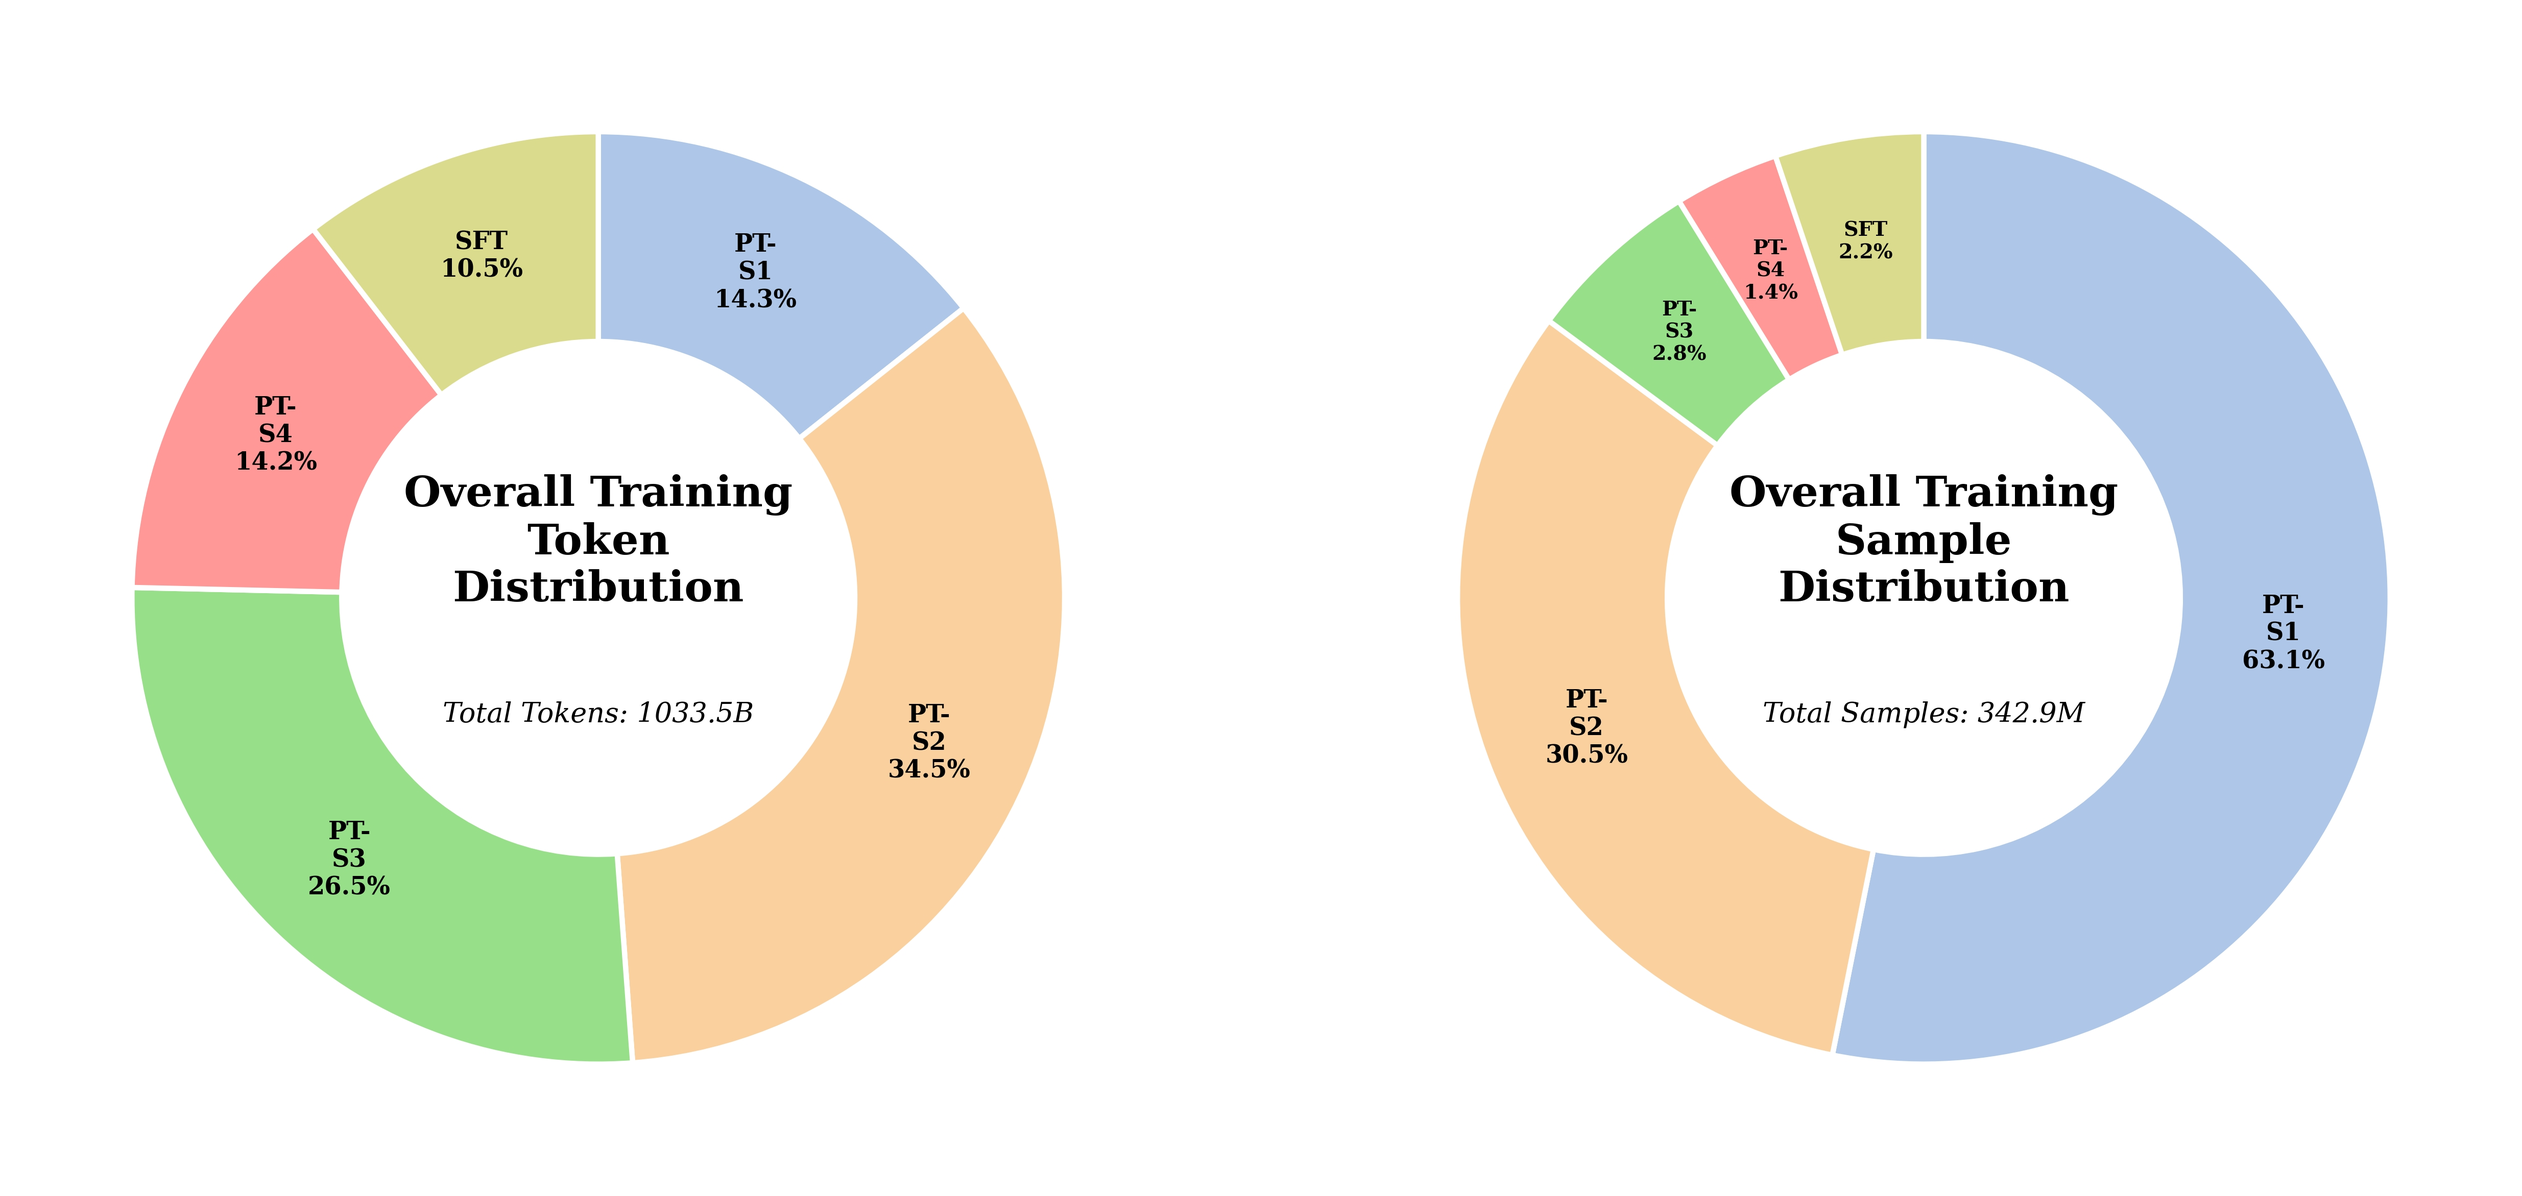
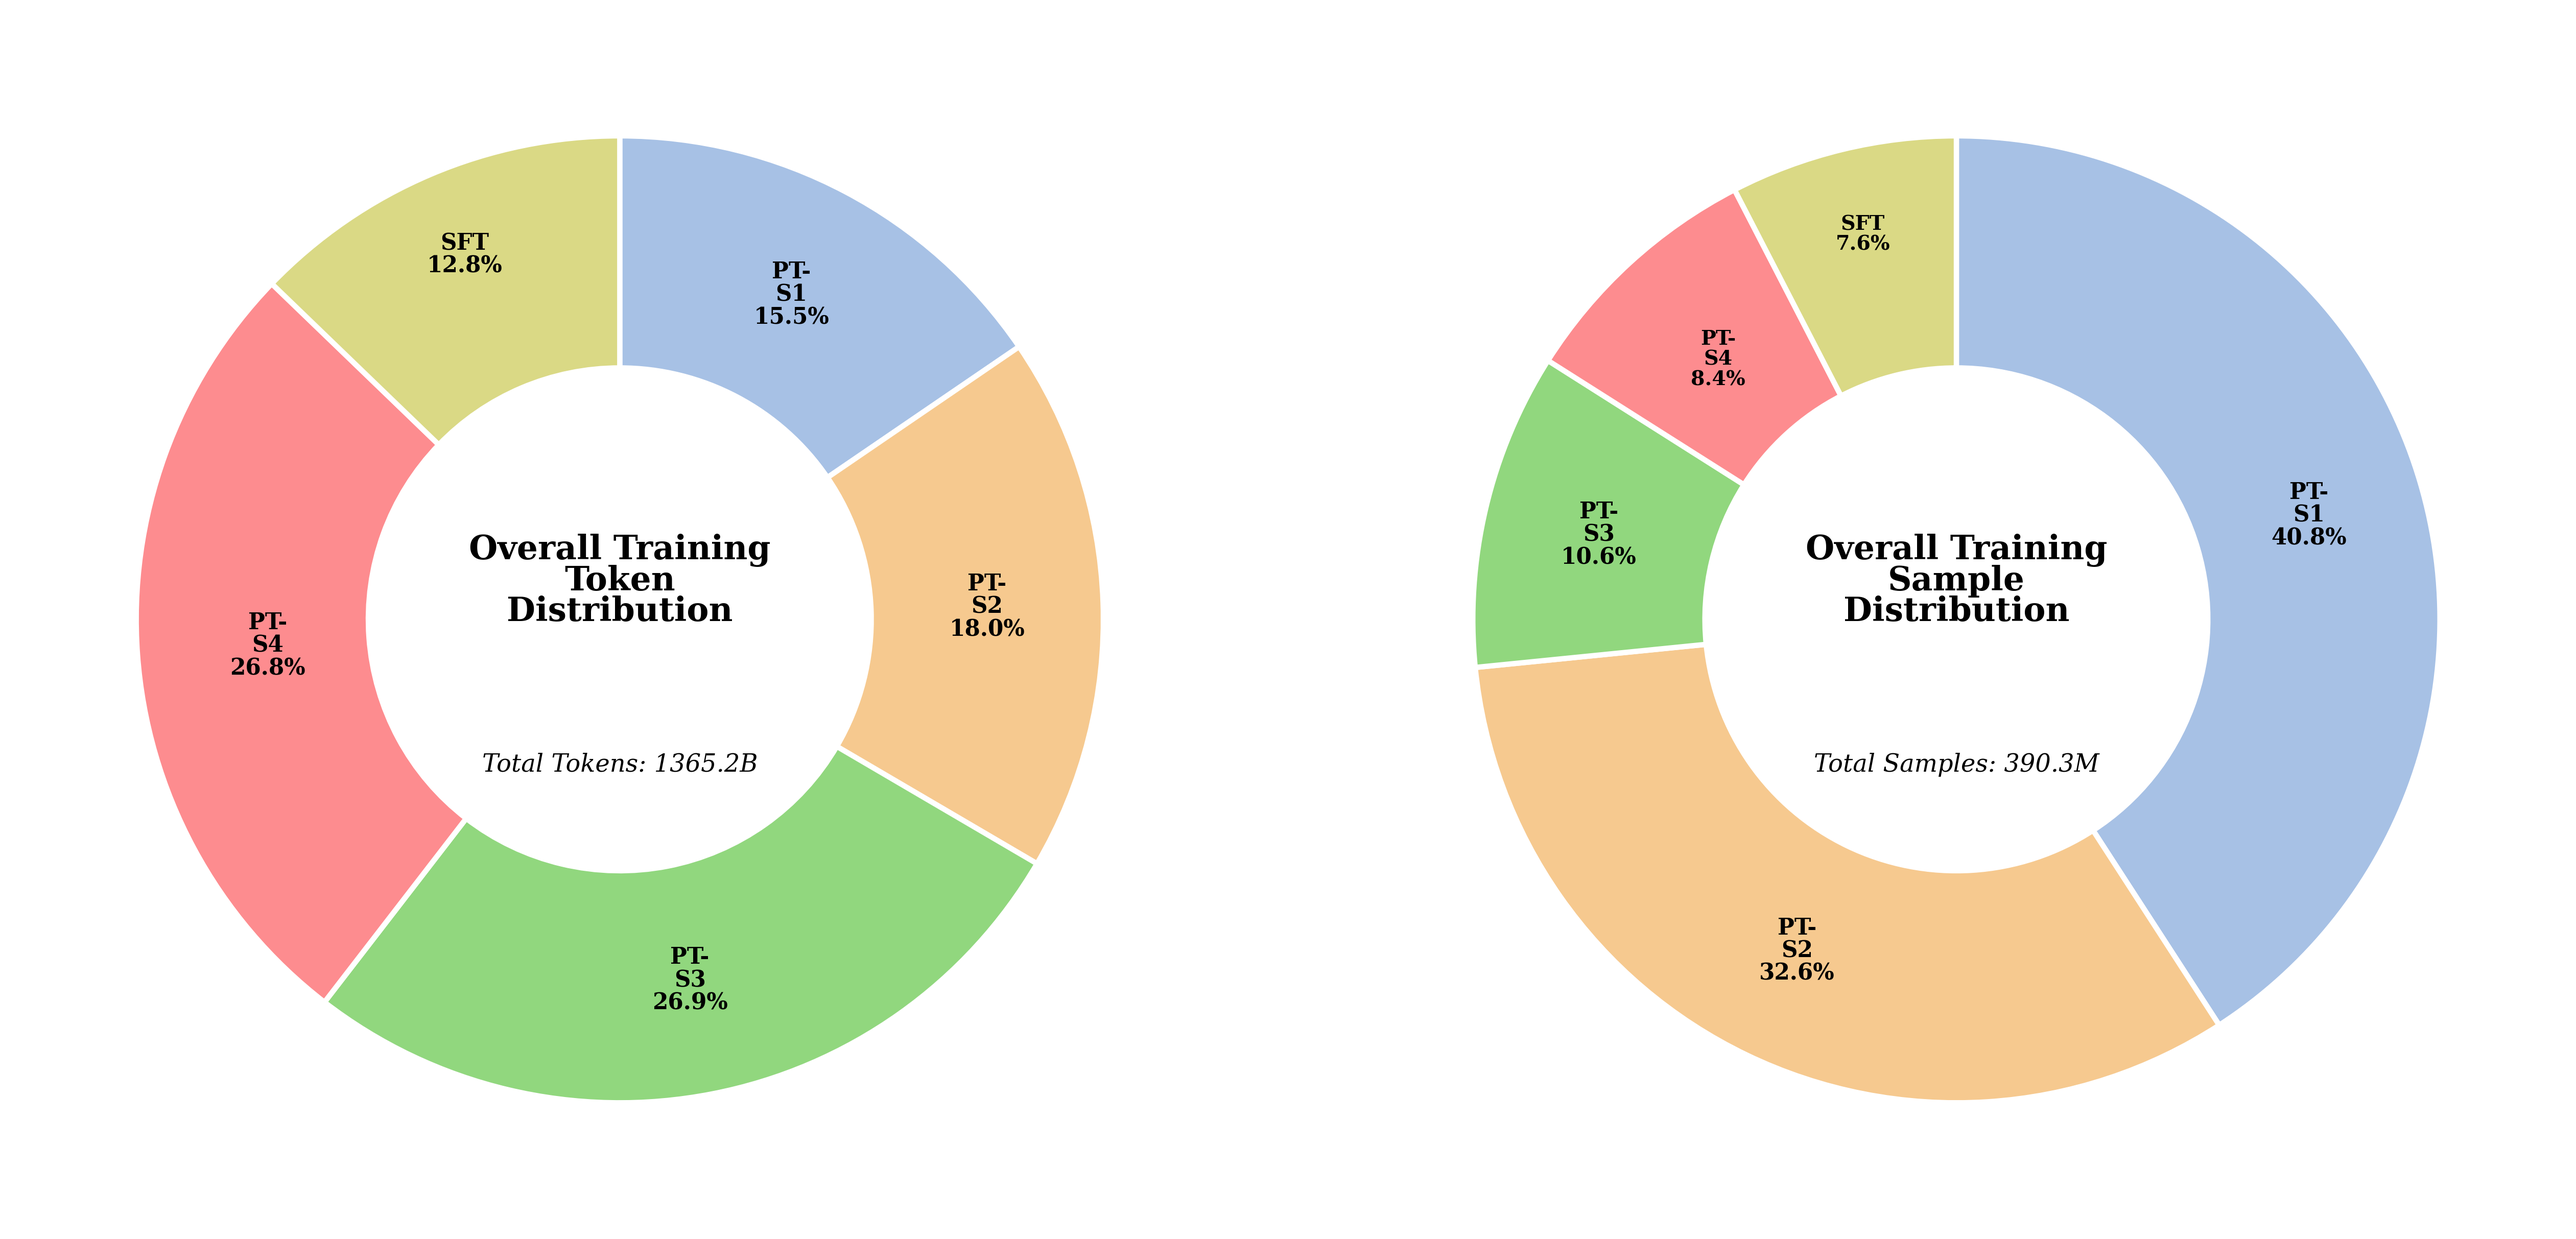
docs: expand quantized checkpoints to four and refresh data figures
- News (EN/ZH): the 2026/08/11 entry now lists all four quantized
  checkpoints — FP8 and NF4 variants of both Instruct-0708 and Realtime
- Refresh blog Figures 4/5 (overall data distribution, SFT composition)
  from the 20260812 data-flywheel export

Claude-Session: https://claude.ai/code/session_01FJCs8paYp2bL3wiGHstqAG

diff --git a/README.md b/README.md
@@ -46,7 +46,7 @@ At the architectural level, **MOSS-VL-Realtime** adopts the following core desig
 ---
 
 ## 🔥 News
-- **2026/08/11**: ⚡ Released 24 GiB quantized checkpoints for MOSS-VL: **MOSS-VL-Instruct-0708-FP8** ([Hugging Face](https://huggingface.co/OpenMOSS-Team/MOSS-VL-Instruct-0708-FP8) | [ModelScope](https://modelscope.cn/models/openmoss/MOSS-VL-Instruct-0708-FP8)) and **MOSS-VL-Realtime-NF4** ([Hugging Face](https://huggingface.co/OpenMOSS-Team/MOSS-VL-Realtime-NF4) | [ModelScope](https://modelscope.cn/models/openmoss/MOSS-VL-Realtime-NF4)), enabling efficient inference on a single 24 GB NVIDIA GPU.
+- **2026/08/11**: ⚡ Released 24 GiB quantized checkpoints for MOSS-VL, with FP8 and NF4 variants for both Instruct-0708 and Realtime: **MOSS-VL-Instruct-0708-FP8** ([Hugging Face](https://huggingface.co/OpenMOSS-Team/MOSS-VL-Instruct-0708-FP8) | [ModelScope](https://modelscope.cn/models/openmoss/MOSS-VL-Instruct-0708-FP8)), **MOSS-VL-Instruct-0708-NF4** ([Hugging Face](https://huggingface.co/OpenMOSS-Team/MOSS-VL-Instruct-0708-NF4) | [ModelScope](https://www.modelscope.cn/models/openmoss/MOSS-VL-Instruct-0708-NF4)), **MOSS-VL-Realtime-FP8** ([Hugging Face](https://huggingface.co/OpenMOSS-Team/MOSS-VL-Realtime-FP8) | [ModelScope](https://www.modelscope.cn/models/openmoss/MOSS-VL-Realtime-FP8)) and **MOSS-VL-Realtime-NF4** ([Hugging Face](https://huggingface.co/OpenMOSS-Team/MOSS-VL-Realtime-NF4) | [ModelScope](https://modelscope.cn/models/openmoss/MOSS-VL-Realtime-NF4)), enabling efficient inference on a single 24 GB NVIDIA GPU.
 - **2026/07/14**: 🚀 Released **[MOSS-VL-Realtime](https://huggingface.co/OpenMOSS-Team/MOSS-VL-Realtime)** for real-time video understanding on continuous streams, together with the new **[MOSS-VL-Instruct-0708](https://huggingface.co/OpenMOSS-Team/MOSS-VL-Instruct-0708)** and **[MOSS-VL-Base-0708](https://huggingface.co/OpenMOSS-Team/MOSS-VL-Base-0708)**.
 - **2026/04/24**: 🚀 SGLang officially supports MOSS-VL; see [sgl-project/sglang](https://github.com/sgl-project/sglang).
 - **2026/04/22**: 🚀 Released SGLang-based inference support for MOSS-VL. See [`./sglang/`](./sglang/).

diff --git a/README_zh.md b/README_zh.md
@@ -46,7 +46,7 @@ https://github.com/user-attachments/assets/678ec713-0e01-4792-a5b3-c72e483c4d5f
 ---
 
 ## 🔥 新闻
-- **2026/08/11**: ⚡ 发布 MOSS-VL 的 24 GiB 量化模型：**MOSS-VL-Instruct-0708-FP8**（[Hugging Face](https://huggingface.co/OpenMOSS-Team/MOSS-VL-Instruct-0708-FP8) | [ModelScope](https://modelscope.cn/models/openmoss/MOSS-VL-Instruct-0708-FP8)）和 **MOSS-VL-Realtime-NF4**（[Hugging Face](https://huggingface.co/OpenMOSS-Team/MOSS-VL-Realtime-NF4) | [ModelScope](https://modelscope.cn/models/openmoss/MOSS-VL-Realtime-NF4)），支持在单张 24 GB NVIDIA GPU 上高效推理。
+- **2026/08/11**: ⚡ 发布 MOSS-VL 的 24 GiB 量化模型，Instruct-0708 与 Realtime 均提供 FP8 和 NF4 两种版本：**MOSS-VL-Instruct-0708-FP8**（[Hugging Face](https://huggingface.co/OpenMOSS-Team/MOSS-VL-Instruct-0708-FP8) | [ModelScope](https://modelscope.cn/models/openmoss/MOSS-VL-Instruct-0708-FP8)）、**MOSS-VL-Instruct-0708-NF4**（[Hugging Face](https://huggingface.co/OpenMOSS-Team/MOSS-VL-Instruct-0708-NF4) | [ModelScope](https://www.modelscope.cn/models/openmoss/MOSS-VL-Instruct-0708-NF4)）、**MOSS-VL-Realtime-FP8**（[Hugging Face](https://huggingface.co/OpenMOSS-Team/MOSS-VL-Realtime-FP8) | [ModelScope](https://www.modelscope.cn/models/openmoss/MOSS-VL-Realtime-FP8)）和 **MOSS-VL-Realtime-NF4**（[Hugging Face](https://huggingface.co/OpenMOSS-Team/MOSS-VL-Realtime-NF4) | [ModelScope](https://modelscope.cn/models/openmoss/MOSS-VL-Realtime-NF4)），支持在单张 24 GB NVIDIA GPU 上高效推理。
 - **2026/07/14**: 🚀 发布 **[MOSS-VL-Realtime](https://huggingface.co/OpenMOSS-Team/MOSS-VL-Realtime)**，面向持续视频流的实时视频理解；同时发布全新的 **[MOSS-VL-Instruct-0708](https://huggingface.co/OpenMOSS-Team/MOSS-VL-Instruct-0708)** 与 **[MOSS-VL-Base-0708](https://huggingface.co/OpenMOSS-Team/MOSS-VL-Base-0708)**。
 - **2026/04/24**: 🚀 SGLang 官方已正式支持 MOSS-VL,详见 [sgl-project/sglang](https://github.com/sgl-project/sglang)。
 - **2026/04/22**: 🚀 推出基于 SGLang 的 MOSS-VL 推理支持,详见 [`./sglang/`](./sglang/)。
